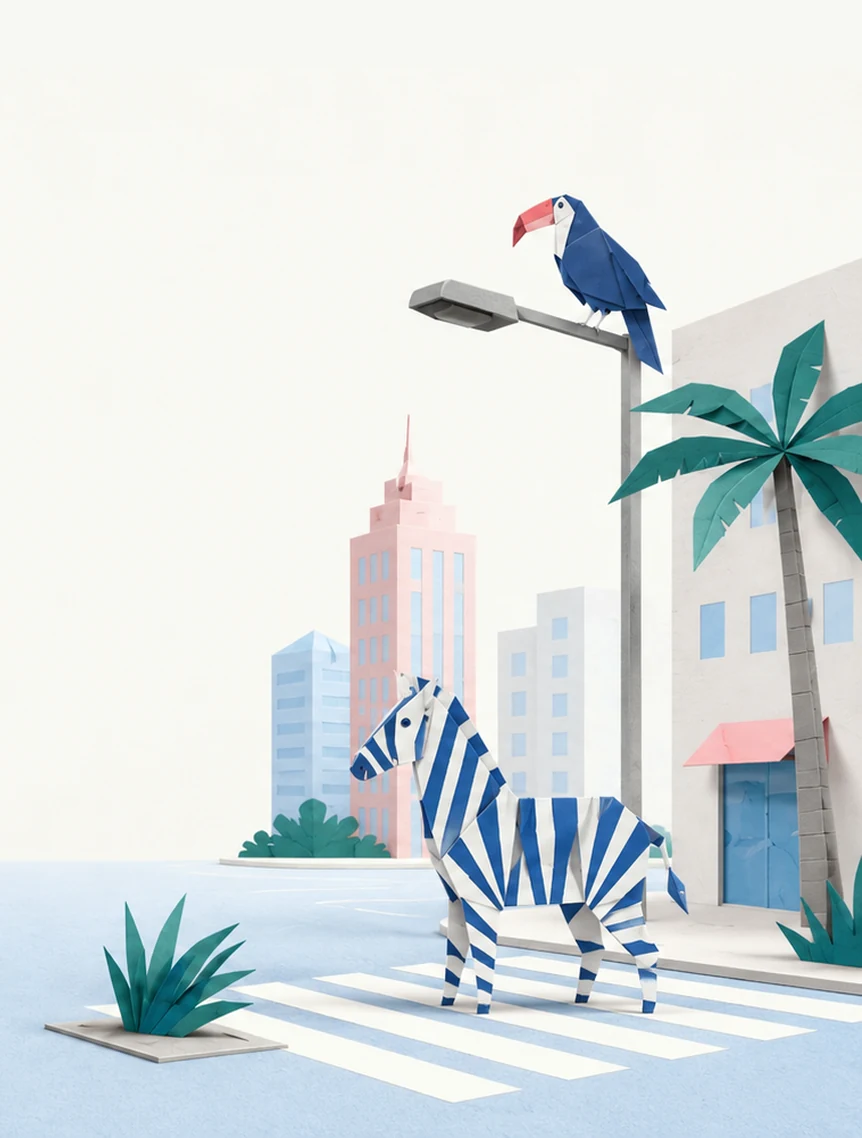
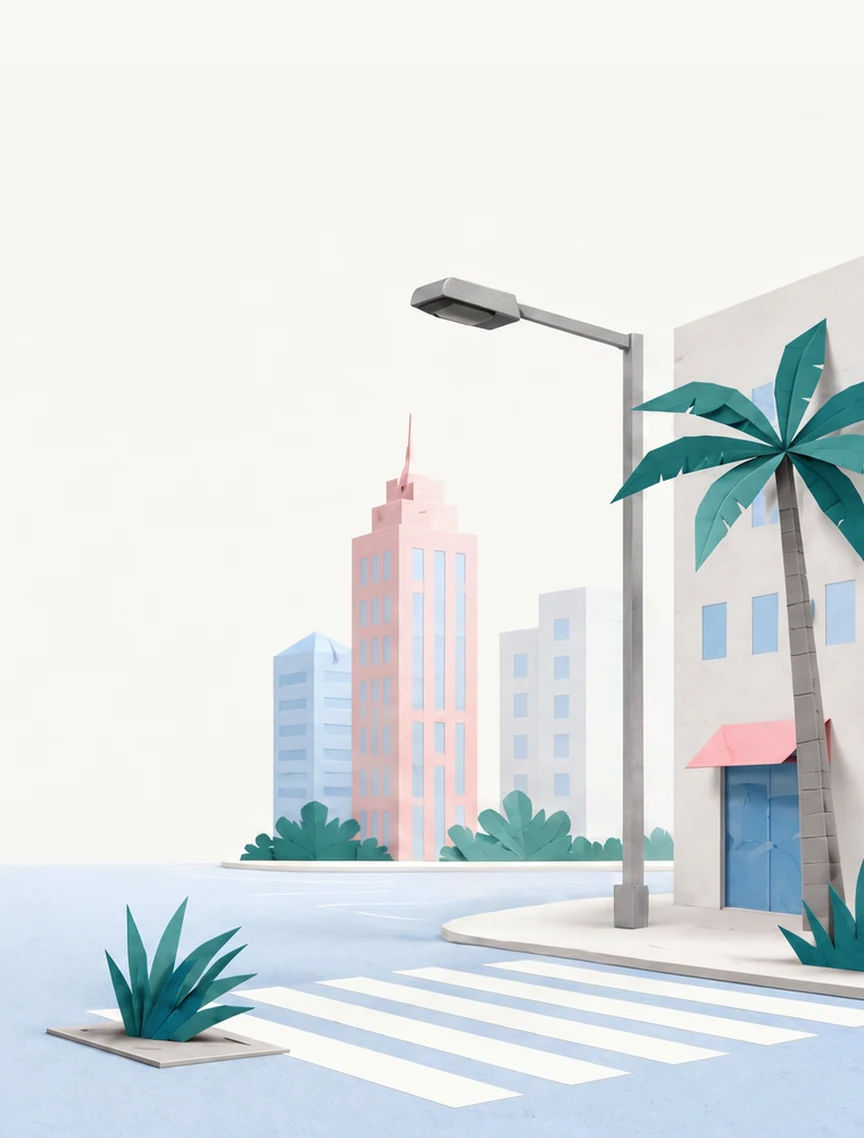
Lift the animals off the plate so they can move
The giraffe, zebra and toucan were baked into the slices, so nothing could move
without tearing a seam. Generated a clean plate of the empty street, cut the three
animals out of the original, and layered them back as their own elements — each
placed as a percentage of its cluster so it tracks the scenery at any width, and
pivoting at its feet.

Verified: the plate's ground matches the original to 0-1px where the animals
stand; the road edge is level across all three seams; the seams stay at 0.00
through the full breathe cycle.

diff --git a/css/styles.css b/css/styles.css
@@ -302,12 +302,52 @@
     0%, 100% { transform: scale(1); }
     50%      { transform: scale(1.022); }
   }
-  .skyline img,
+  .skyline .cluster {
+    position: relative;
+    flex: 0 0 auto;
+    height: 100%;
+  }
+  .skyline .plate,
   .skyline .sky-mid {
     display: block;
     height: 100%;
   }
-  .skyline img { width: auto; flex: 0 0 auto; }
+  .skyline .plate { width: auto; }
+
+  /* The animals are lifted off the plate so they can move. Each is placed as a
+     percentage of its own cluster, so it tracks the scenery at every size, and
+     pivots at its feet — paper animals rock, they don't drift. */
+  .skyline .beast {
+    position: absolute;
+    height: auto;
+    filter: drop-shadow(0 6px 8px rgba(5, 41, 43, 0.18));
+  }
+  .giraffe {
+    transform-origin: 50% 100%;
+    animation: giraffe-graze 9s ease-in-out infinite;
+  }
+  .zebra {
+    transform-origin: 50% 100%;
+    animation: zebra-shift 7s ease-in-out infinite;
+  }
+  .toucan {
+    transform-origin: 40% 100%;
+    animation: toucan-bob 5s ease-in-out infinite;
+  }
+
+  @keyframes giraffe-graze {
+    0%, 100% { transform: rotate(0deg); }
+    50%      { transform: rotate(-1.1deg); }
+  }
+  @keyframes zebra-shift {
+    0%, 100% { transform: rotate(0deg) translateY(0); }
+    50%      { transform: rotate(0.9deg) translateY(-1.5px); }
+  }
+  @keyframes toucan-bob {
+    0%, 100% { transform: rotate(0deg) translateY(0); }
+    35%      { transform: rotate(-3deg) translateY(-2.5px); }
+    70%      { transform: rotate(2deg) translateY(0); }
+  }
   .skyline .sky-mid {
     flex: 1 1 auto;
     min-width: 0;
@@ -693,6 +733,7 @@
 
   @media (prefers-reduced-motion: reduce) {
     .skyline { animation: none; }
+    .skyline .beast { animation: none; }
     .frond svg { animation: none; }
     .reveal { opacity: 1; transform: none; transition: none; }
     .bar { transform: scaleX(1); transition: none; }

diff --git a/index.html b/index.html
@@ -38,9 +38,19 @@
   <!-- ============ HERO ============ -->
   <section class="hero">
     <div class="skyline" role="img" aria-label="A paper-craft city street: an origami giraffe outside a pink building on one side, an origami zebra on a crosswalk and a toucan on a streetlight on the other.">
-      <img src="assets/skyline-left.webp" alt="" />
+      <div class="cluster">
+        <img class="plate" src="assets/skyline-left.webp" alt="" />
+        <img class="beast giraffe" src="assets/giraffe.webp" alt=""
+             style="left:26.0%; top:45.654%; width:35.077%" />
+      </div>
       <div class="sky-mid" style="background-image:url(assets/skyline-mid.webp)"></div>
-      <img src="assets/skyline-right.webp" alt="" />
+      <div class="cluster">
+        <img class="plate" src="assets/skyline-right.webp" alt="" />
+        <img class="beast toucan" src="assets/toucan.webp" alt=""
+             style="left:63.158%; top:16.184%; width:14.474%" />
+        <img class="beast zebra" src="assets/zebra.webp" alt=""
+             style="left:42.5%; top:58.941%; width:37.5%" />
+      </div>
     </div>
 
     <div class="foliage" aria-hidden="true">